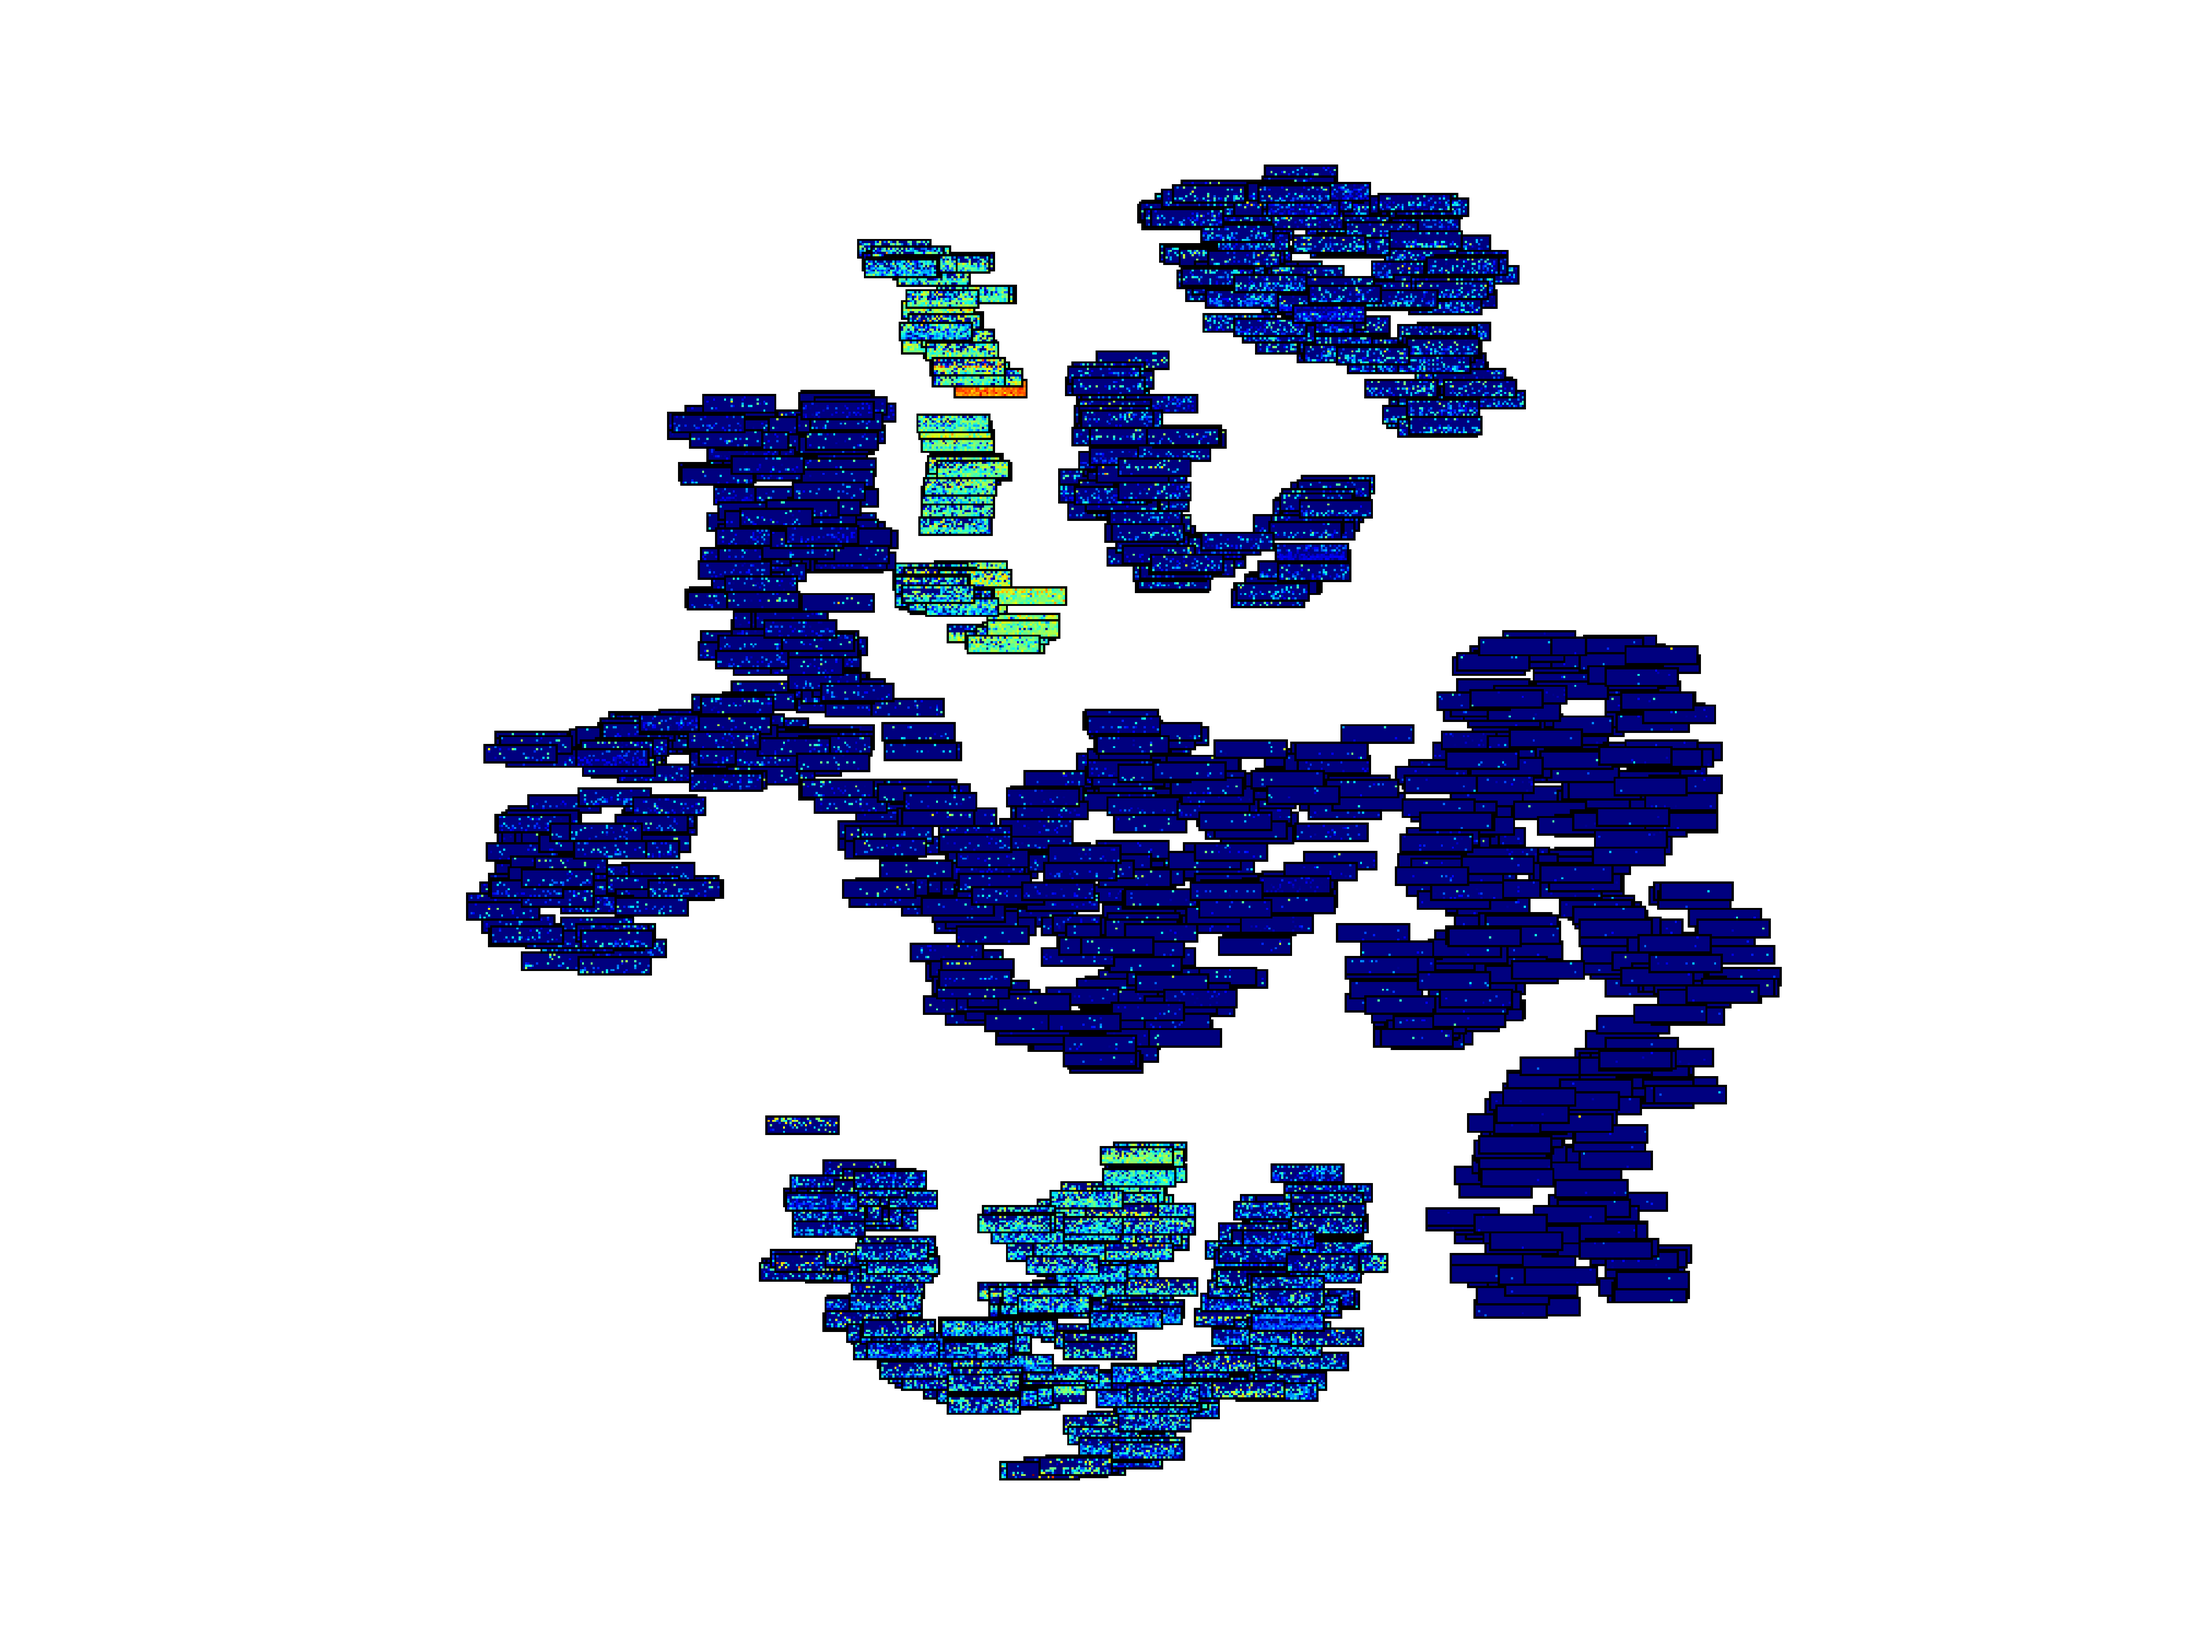
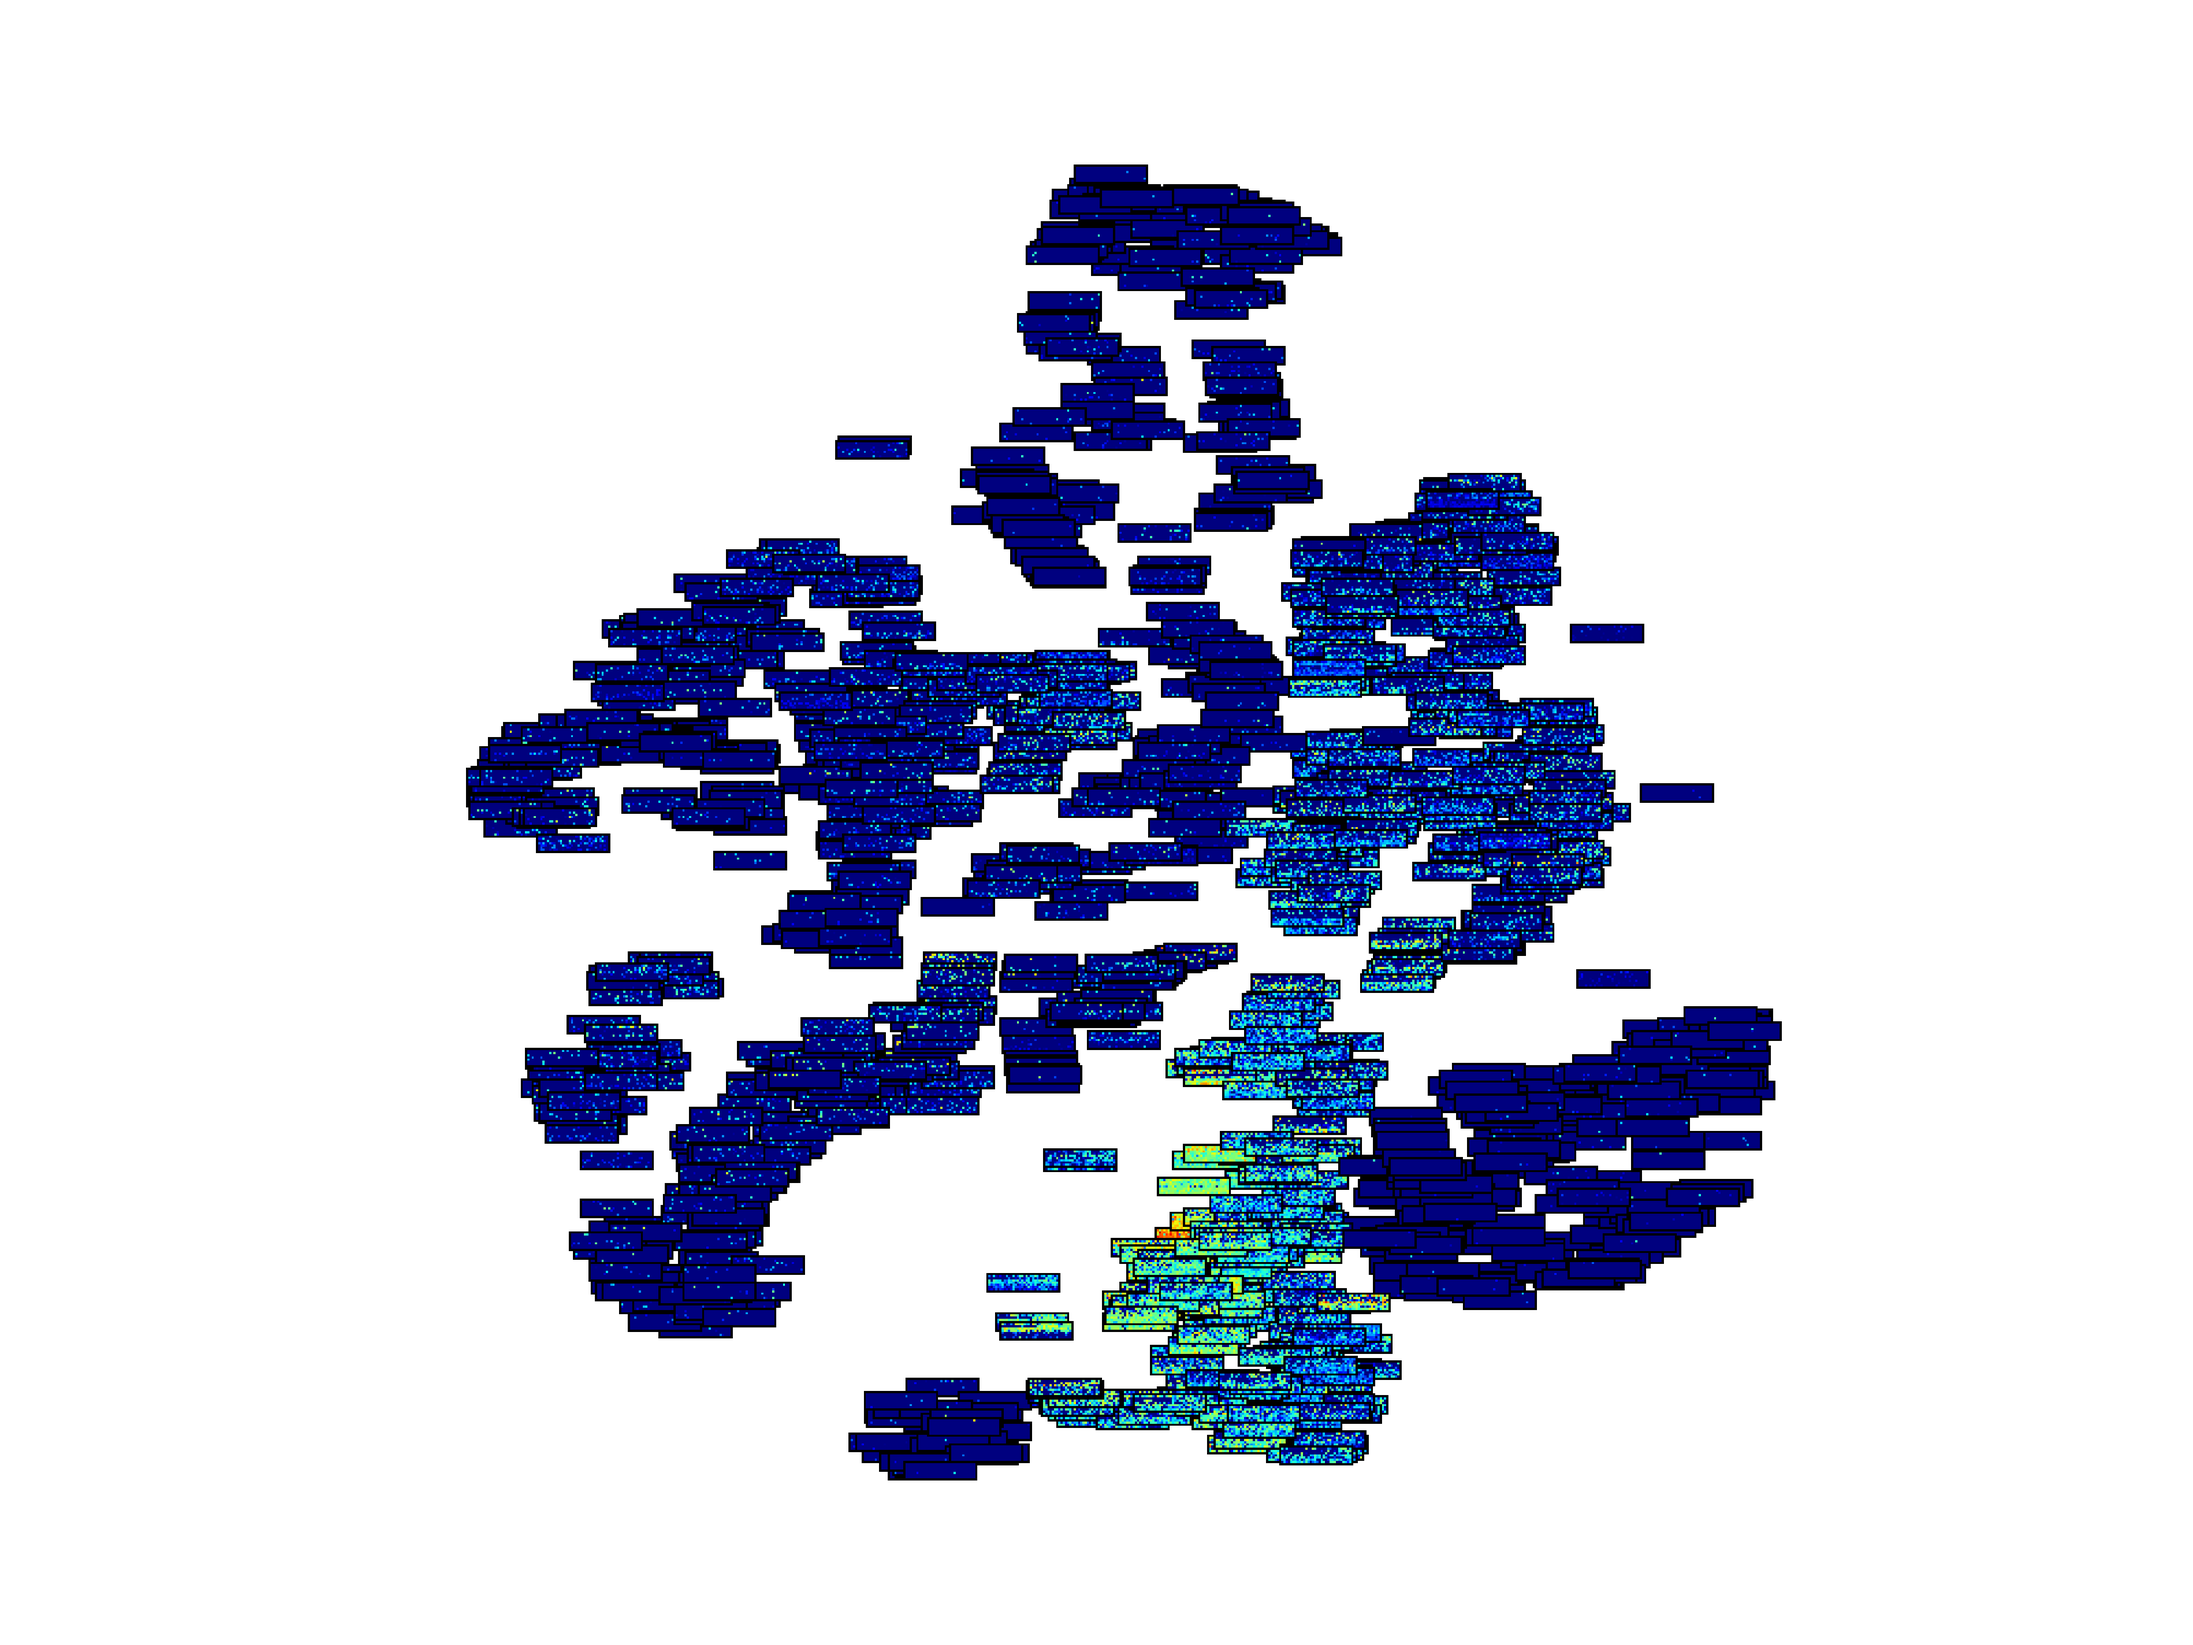
organoid human coordinates

Changed region(s): [[0.1875, 0.0933, 0.8125, 0.9022]]

diff --git a/organoid_cluster_human_images.py b/organoid_cluster_human_images.py
@@ -1,0 +1,56 @@
+import numpy as np
+import json
+import matplotlib.pyplot as plt
+
+#with human coordinates
+# coords = np.transpose(np.loadtxt('allen_data/dev_human/tsne.txt'))
+
+#with mouse coordinates
+#coords = np.transpose(np.loadtxt('allen_data/dev_mouse/tsne/tsne_13650.txt'))
+
+
+# #with organoid coordinates
+coords = np.transpose(np.loadtxt('allen_data/organoid/tsne.txt'))
+
+min_1 = coords[:,0].min()
+max_1 = coords[:,0].max()
+min_2 = coords[:,1].min()
+max_2 = coords[:,1].max()
+coords_n = coords[:]
+coords_n[:,0] = (coords[:,0] - min_1) / (max_1 - min_1) 
+coords_n[:,1] = (coords[:,1] - min_2) / (max_2 - min_2) 
+
+imgs = np.loadtxt('allen_data/dev_human/human_numpy_array.txt')
+human_mask = json.load(open('allen_data/organoid/human_mask.txt'))
+human_mask = np.asarray(human_mask)
+imgs = imgs[human_mask]
+imgs = imgs.reshape(1675, 15, 10)
+
+RES = 600
+can = np.zeros((RES+2,RES+2))
+can.fill(100)
+
+def pad2d(vector, pad_width, iaxis, kwargs):
+	vector[:pad_width[0]] = -100
+	vector[-pad_width[1]:] = -100
+	return vector
+
+for i in range(1675):
+	print(i)
+	y_1 = int(coords_n[i][0] * (RES - 10))
+	y_2 = int(coords_n[i][1] * (RES - 15))
+	can[y_1:y_1+10+2,y_2:y_2+15+2] = np.rot90(np.lib.pad(imgs[i], 1, pad2d))
+
+can = np.ma.masked_where(can == 100, can)
+cmap = plt.cm.jet
+cmap.set_bad(color='white')
+
+cmap.set_under(color='black')
+
+plt.imshow(np.rot90(can), interpolation='none',cmap=cmap,vmin=-16)
+plt.axis('off')
+#with human coordinates
+plt.savefig("figures/organoid/raw_scatter/human_matrices_"+str(RES)+".png",dpi=RES)
+
+#with mouse coordinates
+# plt.savefig("figures/comparison/raw_scatter/mouse_coords_"+str(RES)+".png",dpi=RES)

diff --git a/organoid_cluster_images.py b/organoid_cluster_images.py
@@ -1,14 +1,22 @@
 import numpy as np
+import json
 import matplotlib.pyplot as plt
 
 #with human coordinates
-#coords = np.transpose(np.loadtxt('allen_data/dev_human/tsne.txt'))
+# coords = np.transpose(np.loadtxt('allen_data/dev_human/tsne.txt'))
+# human_mask = json.load(open('allen_data/organoid/human_mask.txt'))
+# human_mask = np.asarray(human_mask)
+# coords = coords[human_mask]
 
-#with mouse coordinates
-#coords = np.transpose(np.loadtxt('allen_data/dev_mouse/tsne/tsne_13650.txt'))
+# #with mouse coordinates
+# coords = np.transpose(np.loadtxt('allen_data/dev_mouse/tsne/tsne_13650.txt'))
+# human_mask = json.load(open('allen_data/organoid/human_mask.txt'))
+# human_mask = np.asarray(human_mask)
+# coords = coords[human_mask]
 
-#with organoid coordinates
-coords = np.transpose(np.loadtxt('allen_data/organoid/tsne/tsne_0.txt'))
+# #with organoid coordinates
+# 15350
+coords = np.transpose(np.loadtxt('allen_data/organoid/tsne.txt'))
 
 min_1 = coords[:,0].min()
 max_1 = coords[:,0].max()
